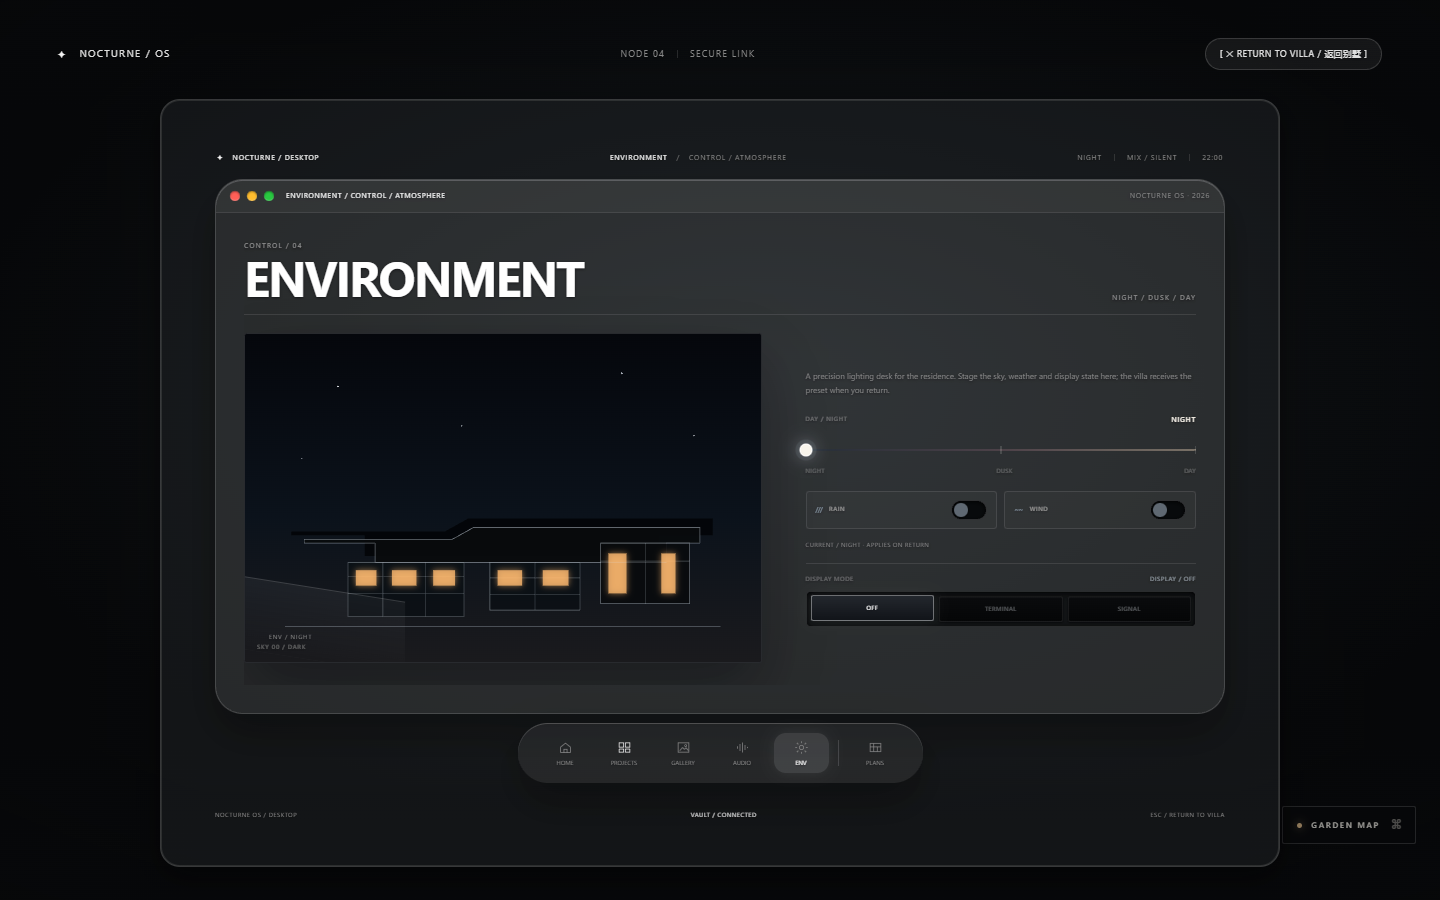
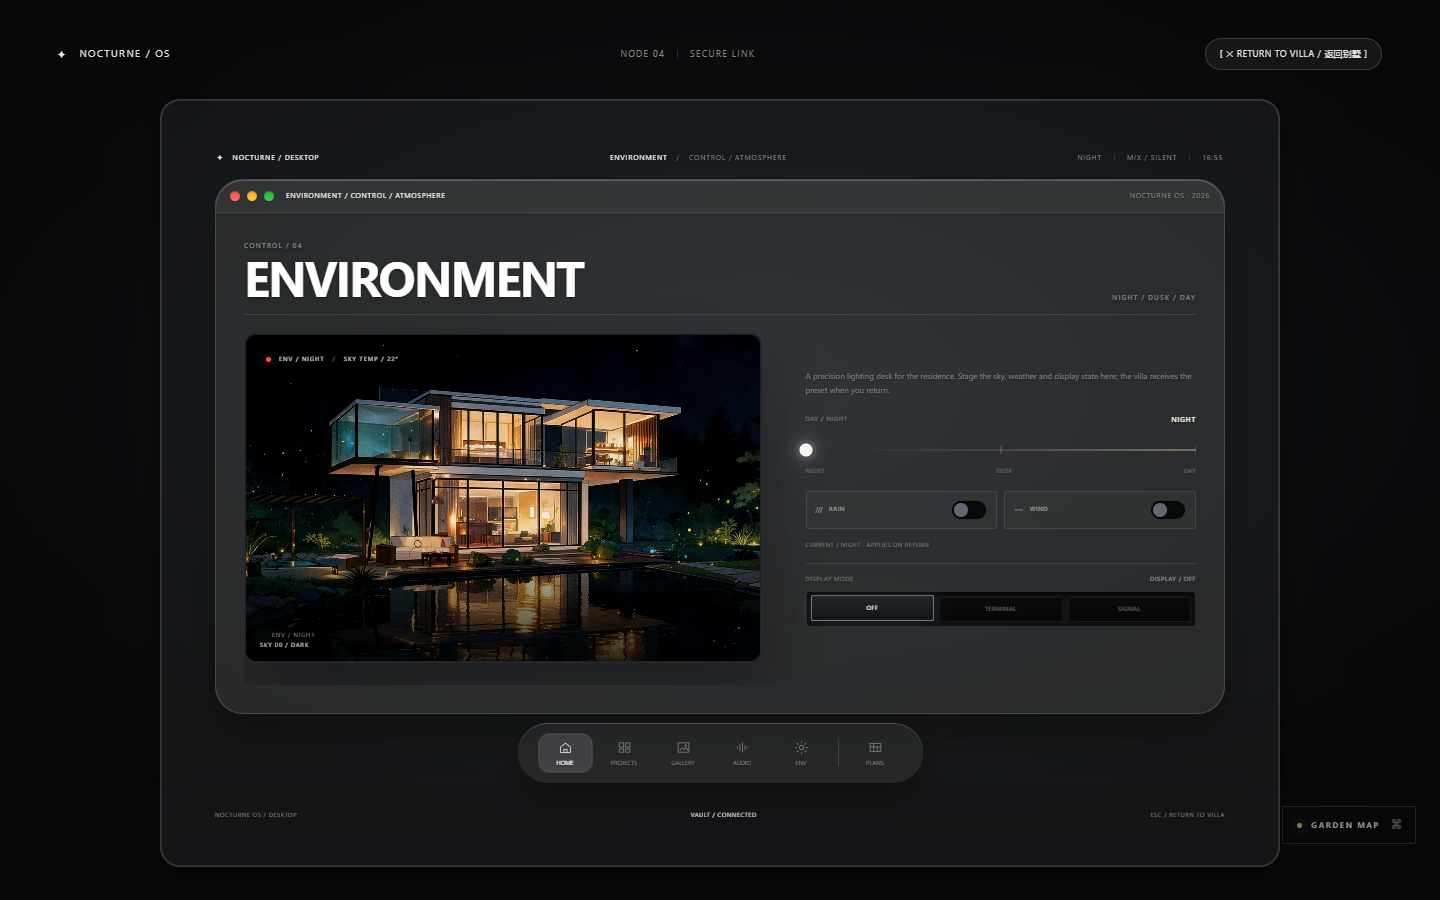
Add AI night plate to environment controls

Changed region(s): [[0.1562, 0.4356, 0.5312, 0.7467], [0.5312, 0.8089, 0.5938, 0.8711], [0.375, 0.8089, 0.4375, 0.8711]]

diff --git a/js/app.js b/js/app.js
@@ -346,6 +346,7 @@ const osState = {
   envSliderThumbEl: null,
   envModeEl: null,
   envSkyReadoutEl: null,
+  envPhotoModeEl: null,
   envWeatherButtons: [],
   envSliderActive: false,
   homeMonitors: [],
@@ -7594,40 +7595,21 @@ function initNocturneOS() {
                   </header>
                   <div class="os-env-layout">
                     <div class="os-env-visual" id="os-env-preview" data-os-env-visual="night" style="--env-pos:0">
-                      <div class="os-env-sky" aria-hidden="true">
-                        <span class="os-env-stars"></span>
-                      </div>
-                      <svg class="os-env-roof" viewBox="0 0 800 460" role="img" aria-label="NOCTURNE villa roof at night">
-                        <path class="os-env-roof-shadow" d="M72 282 310 282 346 262 726 262 726 288 642 288 642 320 186 320 186 288 72 288Z"/>
-                        <path class="os-env-roof-deck" d="M92 294 322 294 354 276 706 276 706 300 654 300 654 330 202 330 202 300 92 300Z"/>
-                        <path class="os-env-roof-glass" d="M160 330 160 414 340 414 340 330Z"/>
-                        <path class="os-env-roof-glass" d="M380 330 380 404 520 404 520 330Z"/>
-                        <path class="os-env-roof-wing" d="M552 300 552 394 690 394 690 300Z"/>
-                        <g class="os-env-mullions">
-                          <path d="M160 352H340M160 378H340M214 330V414M280 330V414"/>
-                          <path d="M380 354H520M380 380H520M450 330V404"/>
-                          <path d="M552 328H690M621 300V394"/>
-                        </g>
-                        <g class="os-env-windows">
-                          <rect x="172" y="342" width="32" height="24"/>
-                          <rect x="228" y="342" width="38" height="24"/>
-                          <rect x="292" y="342" width="34" height="24"/>
-                          <rect x="392" y="342" width="38" height="24"/>
-                          <rect x="462" y="342" width="40" height="24"/>
-                          <rect x="564" y="316" width="28" height="62"/>
-                          <rect x="646" y="316" width="22" height="62"/>
-                        </g>
-                        <path class="os-env-roof-base" d="M62 430H738"/>
-                        <path class="os-env-roof-line" d="M92 294 322 294 354 276 706 276"/>
-                        <path class="os-env-roof-line" d="M202 330H654"/>
-                        <path class="os-env-roof-line" d="M552 300H690"/>
-                        <path class="os-env-roof-line" d="M62 430H738"/>
-                      </svg>
-                      <span class="os-env-weather-fx os-env-rain" aria-hidden="true"></span>
-                      <span class="os-env-weather-fx os-env-wind" aria-hidden="true"></span>
-                      <div class="os-env-visual-meta">
-                        <span class="os-env-readout">ENV / NIGHT</span>
-                        <span class="os-env-sky-readout">SKY 00 / DARK</span>
+                      <div class="os-env-photo">
+                        <img src="images/env-night.jpg" alt="AI study of the NOCTURNE villa at night with pool reflections">
+                        <div class="os-env-photo-hud">
+                          <i class="os-env-photo-live" aria-hidden="true"></i>
+                          <span id="os-env-photo-mode">ENV / NIGHT</span>
+                          <span class="os-env-photo-divider" aria-hidden="true">/</span>
+                          <span>SKY TEMP / 22°</span>
+                        </div>
+                        <div class="os-env-photo-shade" aria-hidden="true"></div>
+                        <span class="os-env-photo-rain" aria-hidden="true"></span>
+                        <span class="os-env-photo-wind" aria-hidden="true"></span>
+                        <div class="os-env-visual-meta">
+                          <span class="os-env-readout">ENV / NIGHT</span>
+                          <span class="os-env-sky-readout">SKY 00 / DARK</span>
+                        </div>
                       </div>
                     </div>
                     <div class="os-env-copy">
@@ -7838,6 +7820,7 @@ function initNocturneOS() {
   osState.envSliderThumbEl = overlay.querySelector("#os-env-slider-thumb");
   osState.envModeEl = overlay.querySelector("#os-env-mode");
   osState.envSkyReadoutEl = overlay.querySelector(".os-env-sky-readout");
+  osState.envPhotoModeEl = overlay.querySelector("#os-env-photo-mode");
   osState.envWeatherButtons = [...overlay.querySelectorAll("[data-os-weather]")];
   osState.homeMonitors = [...overlay.querySelectorAll("[data-os-home-monitor]")];
   osState.homeReadouts = [...overlay.querySelectorAll("[data-os-home-readout]")];
@@ -8261,11 +8244,13 @@ function updateEnvironmentVisual(position) {
   visual.style.setProperty("--env-orb-x", `${66 + pos * 0.08}%`);
   visual.style.setProperty("--env-orb-y", `${24 - pos * 0.06}%`);
   visual.dataset.osEnvVisual = mode;
+  visual.classList.toggle("is-night", mode === "night");
   visual.classList.toggle("is-dusk", mode === "dusk");
   visual.classList.toggle("is-day", mode === "day");
   if (osState.envSliderFillEl) osState.envSliderFillEl.style.width = `${pos}%`;
   if (osState.envSliderThumbEl) osState.envSliderThumbEl.style.left = `${pos}%`;
   if (osState.envModeEl) osState.envModeEl.textContent = mode.toUpperCase();
+  if (osState.envPhotoModeEl) osState.envPhotoModeEl.textContent = `ENV / ${mode.toUpperCase()}`;
   if (osState.envSkyReadoutEl) {
     const stateLabel = mode === "day" ? "LIGHT" : mode === "dusk" ? "LOW" : "DARK";
     osState.envSkyReadoutEl.textContent = `SKY ${String(Math.round(pos)).padStart(2, "0")} / ${stateLabel}`;

diff --git a/css/style.css b/css/style.css
@@ -7648,3 +7648,169 @@ body.os-open .hotspot-layer {
     display: none;
   }
 }
+
+/* ENVIRONMENT / AI night plate ------------------------------------------- */
+.os-env-visual {
+  border-radius: 12px !important;
+  background: #05070c !important;
+}
+
+.os-env-visual::after {
+  display: none !important;
+}
+
+.os-env-photo {
+  position: relative;
+  width: 100%;
+  height: 100%;
+  min-height: 100%;
+  overflow: hidden;
+  border: 1px solid rgba(255, 255, 255, 0.1);
+  border-radius: 12px;
+  background: #05070c;
+}
+
+.os-env-photo > img {
+  display: block;
+  width: 110%;
+  height: 110%;
+  max-width: none;
+  object-fit: cover;
+  transform: translate(-5%, -5%);
+  transition: filter 0.65s ease;
+  filter: brightness(0.9) contrast(1.1) saturate(1.2);
+}
+
+.os-env-visual.is-dusk .os-env-photo > img {
+  filter: sepia(0.5) hue-rotate(-15deg) brightness(1.1);
+}
+
+.os-env-visual.is-day .os-env-photo > img {
+  filter: brightness(1.6) saturate(0.8);
+}
+
+.os-env-photo-shade {
+  position: absolute;
+  right: 0;
+  bottom: 0;
+  left: 0;
+  z-index: 2;
+  width: 100%;
+  height: 40%;
+  pointer-events: none;
+  background: linear-gradient(to top, rgba(0, 0, 0, 0.8), transparent);
+}
+
+.os-env-photo-hud {
+  position: absolute;
+  top: 20px;
+  left: 20px;
+  z-index: 4;
+  display: flex;
+  align-items: center;
+  gap: 8px;
+  color: rgba(244, 247, 250, 0.86);
+  font-family: "SFMono-Regular", "Cascadia Code", Consolas, monospace;
+  font-size: 6px;
+  letter-spacing: 1px;
+  line-height: 1.4;
+  text-shadow: 0 1px 8px rgba(0, 0, 0, 0.8);
+  text-transform: uppercase;
+}
+
+.os-env-photo-live {
+  display: block;
+  width: 5px;
+  height: 5px;
+  border-radius: 50%;
+  background: #ff4a42;
+  box-shadow: 0 0 8px rgba(255, 74, 66, 0.9);
+  animation: osEnvBlink 1.05s steps(1) infinite;
+}
+
+@keyframes osEnvBlink {
+  0%, 55% { opacity: 1; }
+  56%, 100% { opacity: 0.18; }
+}
+
+.os-env-photo-divider {
+  color: rgba(244, 247, 250, 0.34);
+}
+
+.os-env-photo-rain {
+  position: absolute;
+  inset: 0;
+  z-index: 3;
+  display: none;
+  pointer-events: none;
+  opacity: 0.44;
+  background-image: url("../images/rain.png");
+  background-repeat: repeat;
+  background-size: 64px 128px;
+  animation: rainFall 0.5s linear infinite;
+  mix-blend-mode: screen;
+}
+
+@keyframes rainFall {
+  from { background-position: 0 0; }
+  to { background-position: -32px 128px; }
+}
+
+.os-env-photo-wind {
+  position: absolute;
+  inset: 0;
+  z-index: 3;
+  display: none;
+  pointer-events: none;
+  opacity: 0.26;
+  background:
+    linear-gradient(90deg, transparent, rgba(214, 232, 245, 0.55), transparent) 0 32% / 48% 1px no-repeat,
+    linear-gradient(90deg, transparent, rgba(214, 232, 245, 0.28), transparent) 80% 64% / 62% 1px no-repeat,
+    linear-gradient(90deg, transparent, rgba(214, 232, 245, 0.34), transparent) 30% 78% / 36% 1px no-repeat;
+  animation: osEnvPhotoWind 4.8s ease-in-out infinite alternate;
+}
+
+@keyframes osEnvPhotoWind {
+  from { transform: translateX(-7%); opacity: 0.12; }
+  to { transform: translateX(7%); opacity: 0.3; }
+}
+
+.os-env-visual.is-rain .os-env-photo-rain {
+  display: block;
+}
+
+.os-env-visual.is-wind .os-env-photo-wind {
+  display: block;
+}
+
+.os-env-photo .os-env-visual-meta {
+  right: 14px;
+  bottom: 11px;
+  left: 14px;
+  z-index: 5;
+}
+
+.os-env-photo .os-env-readout,
+.os-env-photo .os-env-sky-readout {
+  color: rgba(255, 247, 233, 0.76);
+  text-shadow: 0 1px 8px rgba(0, 0, 0, 0.75);
+}
+
+@media (max-width: 900px) {
+  .os-env-photo {
+    min-height: 220px;
+  }
+
+  .os-env-photo-hud {
+    top: 13px;
+    left: 13px;
+    gap: 6px;
+    font-size: 5px;
+  }
+
+  .os-env-photo .os-env-visual-meta {
+    right: 11px;
+    bottom: 9px;
+    left: 11px;
+  }
+}

diff --git a/index.html b/index.html
@@ -10,8 +10,8 @@
   <meta property="og:description" content="NOCTURNE 暮色住宅：一座为夜晚设计的两层现代别墅。黑色石基、白墙、文化石与落地玻璃，在庭院与暖光之间展开。">
   <meta property="og:type" content="website">
   <link rel="icon" href="./assets/favicon.svg" type="image/svg+xml">
-  <link rel="stylesheet" href="./css/style.css?v=20261105-74">
-  <link rel="stylesheet" href="./css/atelier.css?v=20261105-74">
+  <link rel="stylesheet" href="./css/style.css?v=20261105-75">
+  <link rel="stylesheet" href="./css/atelier.css?v=20261105-75">
   <script type="importmap">
     {"imports":{"three":"./vendor/three.module.js"}}
   </script>
@@ -271,6 +271,6 @@
   </main>
 
   <script src="./vendor/gsap.min.js"></script>
-  <script type="module" src="./js/app.js?v=20261105-74"></script>
+  <script type="module" src="./js/app.js?v=20261105-75"></script>
 </body>
 </html>

diff --git a/architecture.html b/architecture.html
@@ -10,8 +10,8 @@
   <meta property="og:description" content="NOCTURNE 的建筑语言：白色悬挑体量、手工文化石柱、三层 Low-E 玻璃与无柱转角。">
   <meta property="og:type" content="website">
   <link rel="icon" href="./assets/favicon.svg" type="image/svg+xml">
-  <link rel="stylesheet" href="./css/style.css?v=20261105-74">
-  <link rel="stylesheet" href="./css/atelier.css?v=20261105-74">
+  <link rel="stylesheet" href="./css/style.css?v=20261105-75">
+  <link rel="stylesheet" href="./css/atelier.css?v=20261105-75">
   <script type="importmap">
     {"imports":{"three":"./vendor/three.module.js"}}
   </script>
@@ -178,6 +178,6 @@
   </main>
 
   <script src="./vendor/gsap.min.js"></script>
-  <script type="module" src="./js/app.js?v=20261105-74"></script>
+  <script type="module" src="./js/app.js?v=20261105-75"></script>
 </body>
 </html>

diff --git a/garden.html b/garden.html
@@ -10,8 +10,8 @@
   <meta property="og:description" content="NOCTURNE 的庭院：草坪、错缝石板步道、户外沙发、低矮灌木与温暖地灯。">
   <meta property="og:type" content="website">
   <link rel="icon" href="./assets/favicon.svg" type="image/svg+xml">
-  <link rel="stylesheet" href="./css/style.css?v=20261105-74">
-  <link rel="stylesheet" href="./css/atelier.css?v=20261105-74">
+  <link rel="stylesheet" href="./css/style.css?v=20261105-75">
+  <link rel="stylesheet" href="./css/atelier.css?v=20261105-75">
   <script type="importmap">
     {"imports":{"three":"./vendor/three.module.js"}}
   </script>
@@ -122,6 +122,6 @@
   </main>
 
   <script src="./vendor/gsap.min.js"></script>
-  <script type="module" src="./js/app.js?v=20261105-74"></script>
+  <script type="module" src="./js/app.js?v=20261105-75"></script>
 </body>
 </html>

diff --git a/interior.html b/interior.html
@@ -10,8 +10,8 @@
   <meta property="og:description" content="NOCTURNE 的室内：橡木、洞石与亚麻，在 2700K 的暖光里收住锋芒。">
   <meta property="og:type" content="website">
   <link rel="icon" href="./assets/favicon.svg" type="image/svg+xml">
-  <link rel="stylesheet" href="./css/style.css?v=20261105-74">
-  <link rel="stylesheet" href="./css/atelier.css?v=20261105-74">
+  <link rel="stylesheet" href="./css/style.css?v=20261105-75">
+  <link rel="stylesheet" href="./css/atelier.css?v=20261105-75">
   <script type="importmap">
     {"imports":{"three":"./vendor/three.module.js"}}
   </script>
@@ -122,6 +122,6 @@
   </main>
 
   <script src="./vendor/gsap.min.js"></script>
-  <script type="module" src="./js/app.js?v=20261105-74"></script>
+  <script type="module" src="./js/app.js?v=20261105-75"></script>
 </body>
 </html>

diff --git a/README.md b/README.md
@@ -62,7 +62,7 @@ OS 不再只是启动终端加控制面板，而是一套带启动动画的 macO
 - **Audio** — Audio 引擎保留四条 loop 轨道：`AMBIENT RAIN`、`WIND`、`JAZZ` 与本地文件 `Dark`；`audioTracks` 跨 OS 会话保存，关闭 / 重开 OS 时继续播放。`Dark` 在页面加载完成后以 Blob 形式完整预取，打开 Audio 时自动开始播放，并支持自由 seek。
 - **Immersive Audio / My Favourite** — 打开 Audio 会进入独立的全屏唱片房：暖棕色径向背景，左侧 60% 为巨型黑胶盘（封面圆形、黑胶凹槽 `repeating-radial-gradient`、CSS 持续旋转），右侧 40% 为 `Dark / mixed matches / Dark` 与极简播放控制。左上角 `[ ∨ MINIMIZE ]` 返回桌面；此视图会隐藏标准 OS 玻璃窗口、顶部栏与 Dock。银色唱臂由 GSAP 控制，播放时转到 `25deg`，暂停回到 `0deg`。封面为 `images/dark.jpg`，音源位于 `music/Dark.mp3`；细线进度条支持点击、拖动与键盘左右键 seek。
 - **Atelier / Flipbook 创作手记** — 首页空间索引里的 `05 书房 / 创作室` 通向一间可探索的 Atelier。桌面手记、材料盘、建筑模型和档案盒分别对应创作起点、过程、材料与 `Sources & Credits`。书房聚焦后显示 `ATELIER` HUD 与 CSS2D 物件标签；打开物件后进入全屏实体书阅读层：暖白纸面 `#e8dfcf`、左右双页、中央书脊阴影、Newsreader 自托管衬线字体，以及 7 个 spread。翻页使用 DOM 克隆页 + GSAP `x` / `opacity` / `box-shadow`，不做 3D curl；Next 时右页向左滑过左页，Prev 反向。首尾自动隐藏 Prev / Next，Close Book 会先淡出书页，再用 GSAP 把相机送回打开前保存的视角。
-- **Environment** — `NIGHT / DUSK / DAY` 现在是横向精密滑轨；拖动时左侧 SVG 别墅屋顶与天空渐变实时变化，滑轨位置映射到 pending 状态。返回别墅且相机回程完全结束后才应用：Night 恢复原始照明，Dusk 调暖背景并关闭房间主灯，Day 使用冷白环境光和浅色天空。RAIN / WIND 使用 iOS 开关，同时控制对应环境音与视觉天气层。
+- **Environment** — `NIGHT / DUSK / DAY` 现在是横向精密滑轨；左侧显示 AI 生成的夜景图 `images/env-night.jpg`，用 110% 尺寸与 `translate(-5%, -5%)` 裁掉水印，并叠加 `ENV / NIGHT / SKY TEMP / 22°` 摄像头 HUD、闪烁红灯和底部 40% 暗角渐变。滑轨会实时切换图片滤镜：Night 冷调高饱和、Dusk sepia + hue-rotate、Day 提亮降饱和。RAIN / WIND 使用 iOS 开关，同时控制环境音、`images/rain.png` 循环雨层和风线。返回别墅且相机回程完全结束后才应用 3D 照明：Night 恢复原始照明，Dusk 调暖背景并关闭房间主灯，Day 使用冷白环境光和浅色天空。
 - **Plans** — 保留 F1 / F2 内联 SVG 蓝图；可从 Dock 打开。蓝图、项目详情、Gallery lightbox 的 Escape 优先级都是“先返回上一层”，主桌面 Escape 才退出 OS。
 - **Onsen / Garden Map** — 别墅左前方扩展出独立的户外温泉亭：黑石平台、木格栅、暖水池、石灯笼、竹屏、涟漪与蒸汽。可通过空间索引 `08 温泉`、3D 点击或 `GARDEN MAP` 进入；聚焦后右下角提供 `STEAM`、`BATH LIGHT` 和 `RETURN TO GARDEN`。`GARDEN MAP` 也可用 `M` 打开、`ESC` 关闭，包含 Villa / Tea Room / Terrace / Garage / Onsen 五个镜头节点。
 - **Master Suite family photo** — 主卧床头墙新增 1.12 × 0.82 m 深木相框与 `PlaneGeometry(1,1)` 照片平面，读取根目录 `family.jpg` 并按原始宽高比自适应缩放。当前已放入用户提供的家庭照片；没有图片时显示深灰底与细金内框，不阻塞场景。鼠标悬停相框会出现手型光标，点击弹出文件选择器；上传图片通过 `FileReader` + `THREE.Texture` 热替换，旧纹理即时 `dispose()`。相框上方有一盏 `0.5` 强度的暖色 `SpotLight`，随卧室在 X-Ray Focus 中的变暗而渐隐到 `0.075`，退出聚焦后回到 `0.5`。
